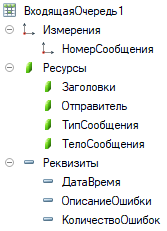
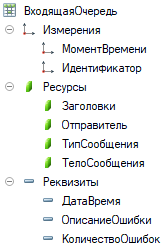
Update documentation

diff --git a/doc/1c-schema/README.md b/doc/1c-schema/README.md
@@ -20,7 +20,7 @@
 
 Такое разнообразие версий обуславливается переходным статусом версии DaJet Agent 6.3.3.
 
-В будущем планируется перейти к одной (эталонной) паре регистров версии 12.
+В будущем планируется перейти к одной (эталонной) паре регистров версии 1.
 
 Для организации обмена данными можно использовать [эталонную подсистему для 1С](https://github.com/zhichkin/dajet-agent/blob/main/1c/dajet_standard.cf),
 которая использует формат [1С JDTO](https://infostart.ru/1c/articles/1481155/) для записи и чтения сообщений.
@@ -63,7 +63,7 @@
 
 | **Регистр сведений** | **Тип данных 1С**       | **Тип данных СУБД** | **Описание**                                          |
 |----------------------|-------------------------|---------------------|-------------------------------------------------------|
-| **НомерСообщения**   | Число(19,0)             | numeric(19,0)       | Порядковый номер сообщения                            |
+| **МоментВремени**    | Число(19,0)             | numeric(19,0)       | Порядковый номер сообщения                            |
 | **Идентификатор**    | УникальныйИдентификатор | binary(16) uuid     | Идентификатор сообщения (необязательный)              |
 | **Заголовки**        | Строка(0) переменная    | nvarchar(max)       | Заголовки сообщения                                   |
 | **ДатаВремя**        | Дата(дата и время)      | datetime2           | Время формирования сообщения (необязательный)         |
@@ -71,6 +71,7 @@
 | **ТелоСообщения**    | Строка(0) переменная    | nvarchar(max)       | Тело сообщения в формате JSON или XML                 |
 | **Ссылка**           | УникальныйИдентификатор | binary(16) uuid     | Ссылка на объект 1С в теле сообщения (необязательный) |
 | **Отправитель**      | Строка(36) переменная   | nvarchar(36)        | Код отправителя сообщения, передаётся в заголовках    |
+| **Получатели**       | Строка(0) переменная    | nvarchar(max)       | Список кодов узлов получателей в формате CSV          |
 | **ОписаниеОшибки**   | Строка(1024) переменная | nvarchar(1024)      | Описание ошибки, возникшей при приёме сообщения       |
 | **КоличествоОшибок** | Число(2,0)              | numeric(2,0)        | Количество ошибок, возникших при приёме сообщения     |
 
@@ -95,13 +96,14 @@
 	Набор = РегистрыСведений.ИсходящаяОчередь.СоздатьНаборЗаписей();
 	Сообщение = Набор.Добавить();
 	
-	Сообщение.НомерСообщения = ТекущаяУниверсальнаяДатаВМиллисекундах();
+	Сообщение.МоментВремени = ТекущаяУниверсальнаяДатаВМиллисекундах();
 	Сообщение.Идентификатор = Новый УникальныйИдентификатор();
 	Сообщение.ДатаВремя = ТекущаяДатаСеанса();
 	Сообщение.Заголовки = "{ ""Sender"": ""УТ"", ""Recipients"": ""БП"" }";
+	Сообщение.Отправитель = "ЦБ";
+	Сообщение.Получатели = "N001,N002,N003";
 	Сообщение.ТипСообщения = СправочникОбъект.Метаданные().ПолноеИмя();
 	Сообщение.ТелоСообщения = СформироватьТелоСообщения(СправочникОбъект);
-	Сообщение.Ссылка = СправочникОбъект.Ссылка.УникальныйИдентификатор();
 	
 	Набор.ОбменДанными.Загрузка = Истина;
 	Набор.Записать(Ложь);	
